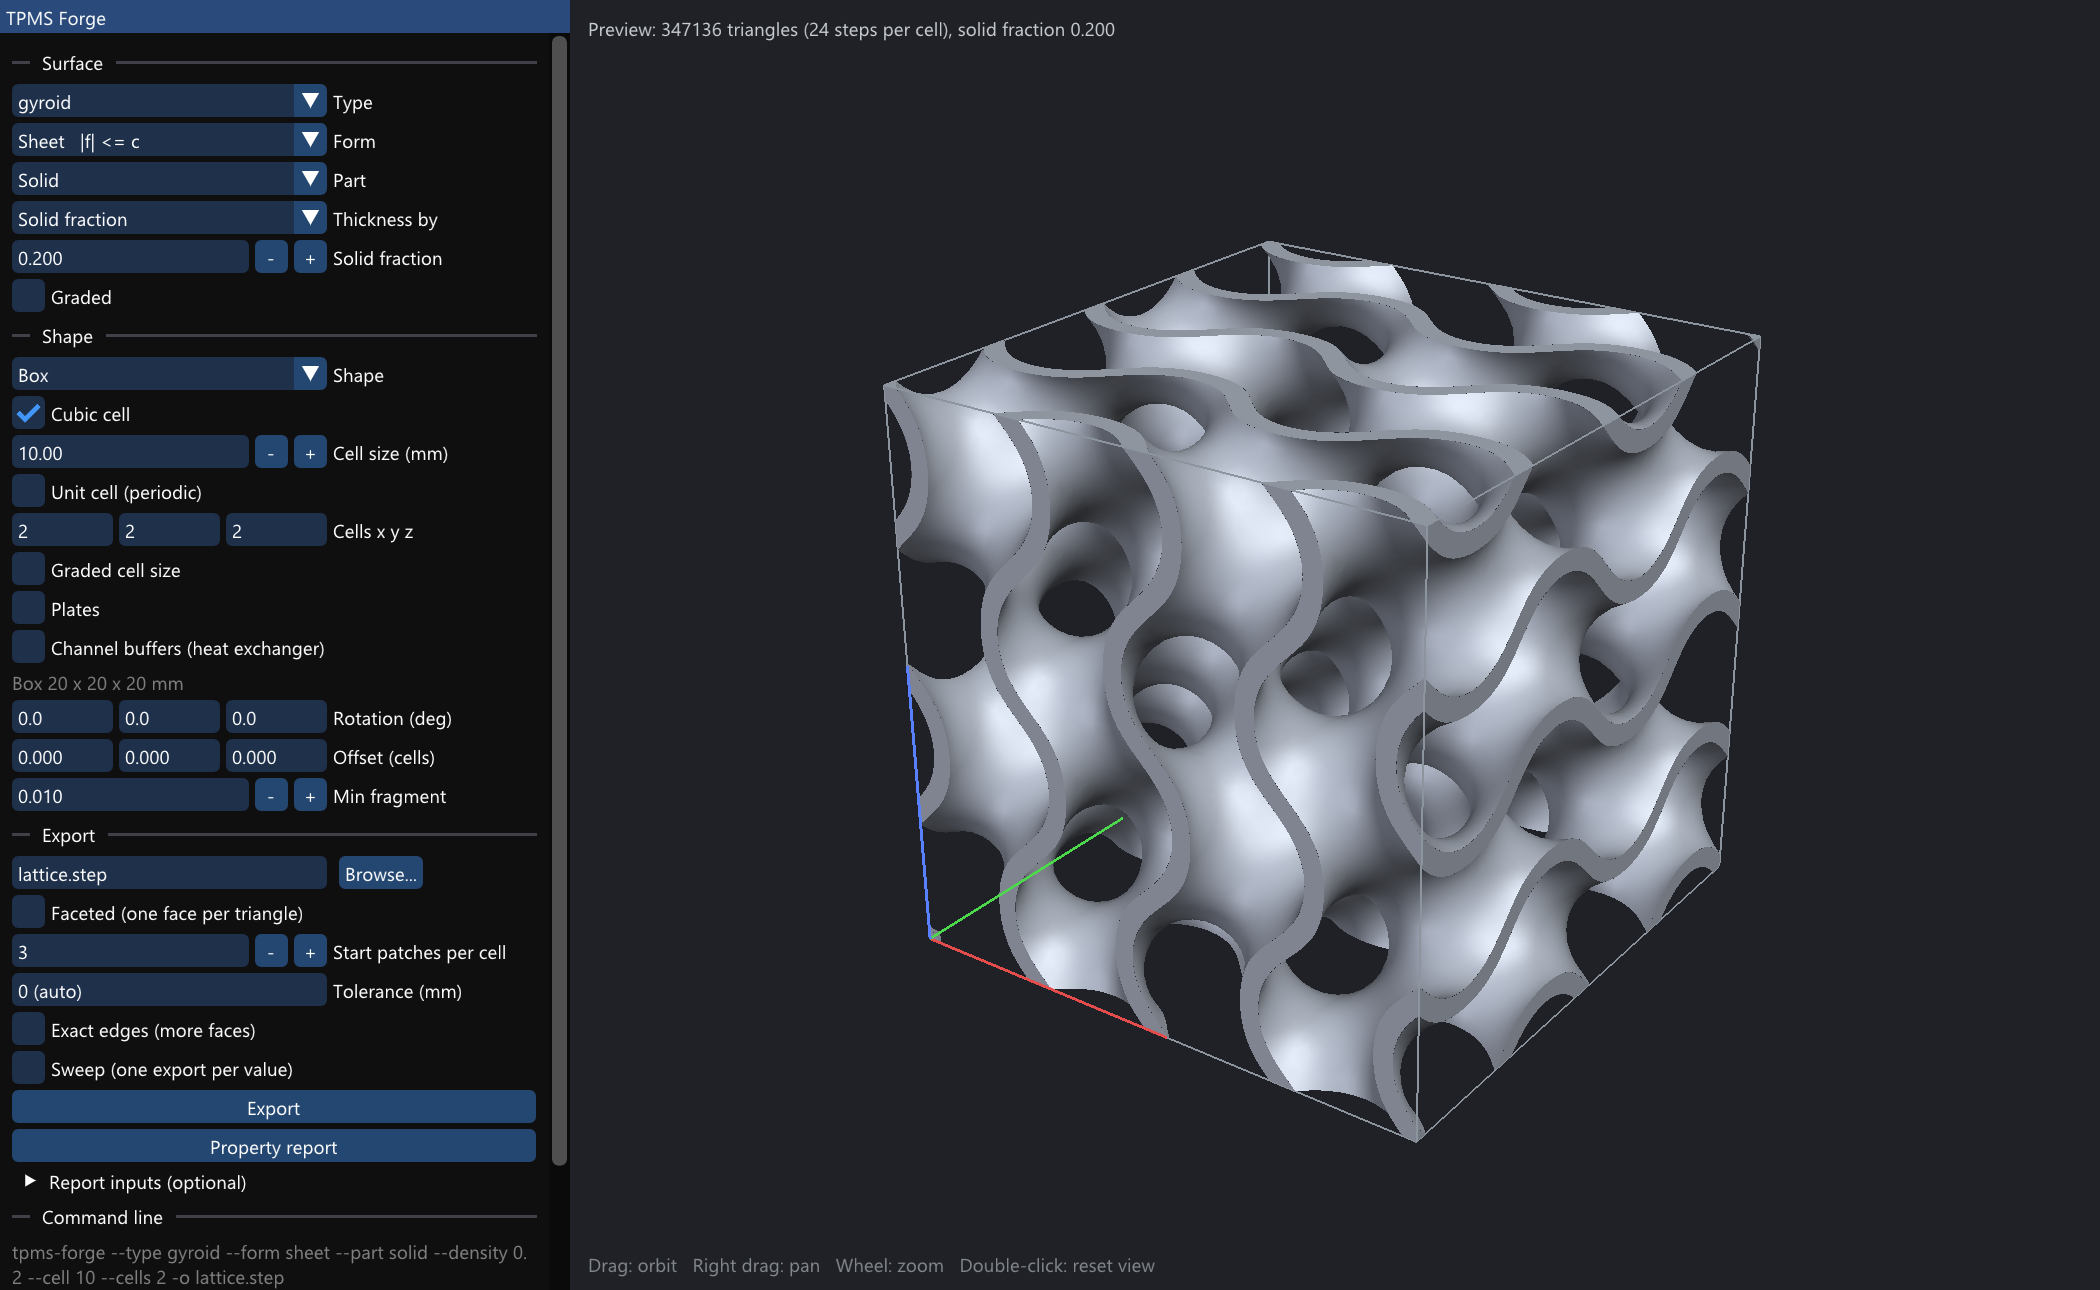
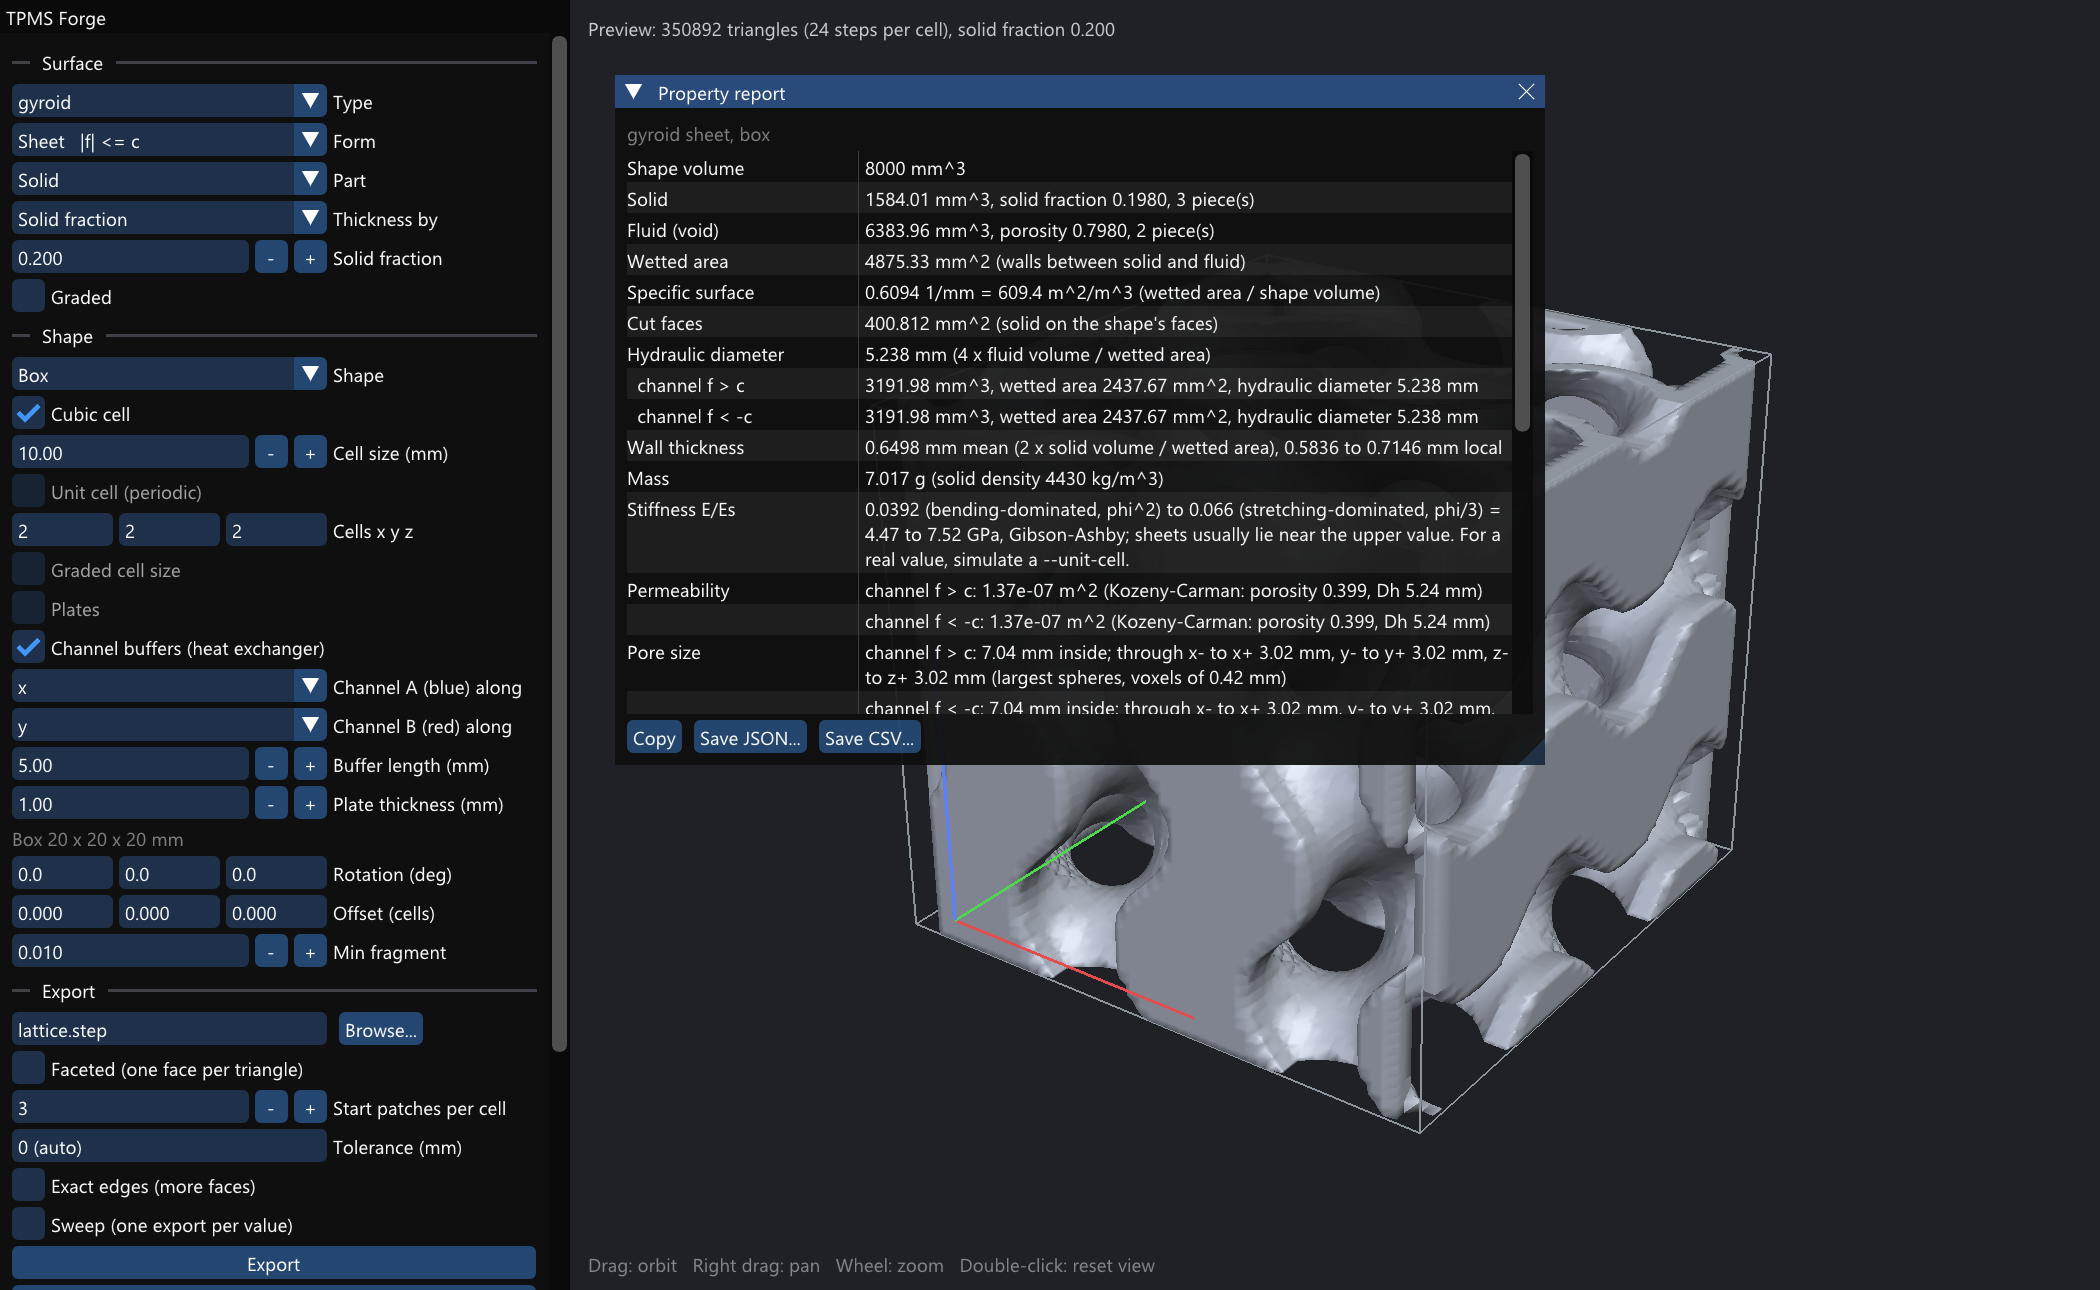
README pictures: the surface types and the GUI with its property report
The README opens with a gallery of one sheet cell of each of the seven
surface types (docs/surfaces.png, rendered by tools/render_images.py in the
banner's style) and a screenshot of the GUI with the property report open
(docs/gui.png, now written by tools/user_guide.py with its screenshots).

diff --git a/tools/render_images.py b/tools/render_images.py
@@ -1,5 +1,6 @@
 """Renders the README banner, docs/banner.png (also GitHub's social preview
-image), and the program icon, src/tpms.ico, from models that build/tpms-forge makes.
+image), the gallery of surface types, docs/surfaces.png, and the program icon,
+src/tpms.ico, from models that build/tpms-forge makes.
 
 Needs the project's .venv (VTK comes with cadquery-ocp) and a built tpms-forge.
 Usage: .venv/Scripts/python tools/render_images.py   (.venv/bin/python elsewhere)
@@ -172,25 +173,58 @@ def banner():
     img.convert("RGB").resize((W // 2, H // 2), Image.LANCZOS).save(ROOT / "docs" / "banner.png", optimize=True)
 
 
-def icon():
-    mesh = model("cell", "--type gyroid --cells 1 --density 0.35 --res 48")
+def gradient(size):
+    """The background: TOP at the top, BOTTOM at the bottom."""
+    rows = np.linspace(0, 1, size[1])[:, None, None]
+    shade = np.asarray(TOP) * (1 - rows) + np.asarray(BOTTOM) * rows
+    return Image.fromarray((np.broadcast_to(shade, (size[1], size[0], 3)) * 255).astype(np.uint8)).convert("RGBA")
+
+
+def cell_picture(name, args, side):
+    """One cell of a lattice, seen from a corner, on a transparent square of the given side."""
+    mesh = model(name, args)
     paint(mesh, (0.3, 0.2, 1))
     img, _ = render([actor(mesh, (0, 0, 0), 2, (0, 0, 0))], (1024, 1024), (6, -6, 5), (0, 0, 0), 22, False)
     img = img.crop(img.getbbox())
-    img = img.resize((round(img.width * 212 / max(img.size)), round(img.height * 212 / max(img.size))), Image.LANCZOS)
-    # On a dark rounded tile, as the banner, so it reads on light and dark backgrounds.
-    rows = np.linspace(0, 1, 256)[:, None, None]
-    shade = np.asarray(TOP) * (1 - rows) + np.asarray(BOTTOM) * rows
-    tile = Image.fromarray((np.broadcast_to(shade, (256, 256, 3)) * 255).astype(np.uint8)).convert("RGBA")
+    scale = side / max(img.size)
+    img = img.resize((round(img.width * scale), round(img.height * scale)), Image.LANCZOS)
+    square = Image.new("RGBA", (side, side))
+    square.alpha_composite(img, ((side - img.width) // 2, (side - img.height) // 2))
+    return square
+
+
+def surfaces():
+    """One sheet cell of each surface type, in rows of 4, labeled."""
+    types = [("gyroid", "Gyroid"), ("schwarz-p", "Schwarz P"), ("diamond", "Diamond"), ("iwp", "I-WP"),
+             ("frd", "FRD"), ("fischer-koch-s", "Fischer-Koch S"), ("neovius", "Neovius")]
+    tile, label, margin = 400, 70, 80  # twice the final size
+    W = 4 * tile + 2 * margin
+    img = gradient((W, 2 * (tile + label) + margin))
+    draw = ImageDraw.Draw(img)
+    small = font(["segoeui.ttf", "DejaVuSans.ttf"], 40)
+    for k, (t, name) in enumerate(types):
+        row, col = divmod(k, 4)
+        x = margin + col * tile + (tile // 2 if row else 0)  # the last row of 3 centered
+        y = margin // 2 + row * (tile + label)
+        img.alpha_composite(cell_picture(f"cell-{t}", f"--type {t} --cells 1 --res 64", tile - 50), (x + 25, y))
+        draw.text((x + tile // 2, y + tile - 30), name, font=small, fill=(170, 180, 210), anchor="mt")
+    img.convert("RGB").resize((img.width // 2, img.height // 2), Image.LANCZOS).save(ROOT / "docs" / "surfaces.png",
+                                                                                       optimize=True)
+
+
+def icon():
+    # A gyroid cell on a dark rounded tile, as the banner, so it reads on light and dark backgrounds.
+    tile = gradient((256, 256))
     mask = Image.new("L", (256, 256))
     ImageDraw.Draw(mask).rounded_rectangle((0, 0, 255, 255), radius=52, fill=255)
     tile.putalpha(mask)
-    tile.alpha_composite(img, ((256 - img.width) // 2, (256 - img.height) // 2))
+    tile.alpha_composite(cell_picture("cell", "--type gyroid --cells 1 --density 0.35 --res 48", 212), (22, 22))
     tile.save(WORK / "icon.png")
     tile.save(ROOT / "src" / "tpms.ico", sizes=[(s, s) for s in (16, 24, 32, 48, 64, 128, 256)])
 
 
 if __name__ == "__main__":
     banner()
+    surfaces()
     icon()
-    print("wrote docs/banner.png and src/tpms.ico")
+    print("wrote docs/banner.png, docs/surfaces.png and src/tpms.ico")

diff --git a/tools/user_guide.py b/tools/user_guide.py
@@ -3,7 +3,8 @@
 Needs: python -m pip install reportlab pillow, and a built tpms-forge-gui.
 Usage: python tools/user_guide.py [--no-shots]
 
-The screenshots go to build/guide; --no-shots reuses them. Fonts: Segoe UI
+The screenshots go to build/guide; --no-shots reuses them. The one with the
+property report is also the README's picture of the GUI, docs/gui.png. Fonts: Segoe UI
 and Consolas (Windows), else DejaVu (matplotlib's copy).
 """
 import os
@@ -68,6 +69,7 @@ def take_shots():
         PILImage.open(ppm).save(SHOTS / f"{name}.png")
         ppm.unlink()
         print("screenshot", name)
+    PILImage.open(SHOTS / "report.png").save(ROOT / "docs" / "gui.png", optimize=True)
 
 
 def view(name):

diff --git a/README.md b/README.md
@@ -6,13 +6,19 @@
 
 TPMS Forge (TPMS-F for short) turns a TPMS lattice into a STEP or STL file. TPMS stands for triply periodic minimal surface. There is a command-line tool, `tpms-forge`, and a desktop app with a live 3D preview, `tpms-forge-gui`.
 
+![One cell of each surface type: gyroid, Schwarz P, diamond, I-WP, FRD, Fischer-Koch S and Neovius](docs/surfaces.png)
+
+Seven surface types, each as a sheet or a network, as the solid or as the fluid around it.
+
 **Status: v2.** STEP output has smooth bicubic B-spline faces that follow the exact surface within a set tolerance. STL output, and STEP with `--faceted`, are triangle meshes (the v0 path). The GUI offers every command-line option. Besides boxes, the lattice can fill a tube, torus shell or sphere shell with cells that follow the curvature, or a cylinder, sphere or torus cut from a straight lattice; every shape has smooth STEP. Density, wall thickness (in mm) and cell size can be graded, and a property report gives volumes, wetted area, hydraulic diameters and wall thickness for CFD and FEA. Every STEP file is checked as a valid closed solid in OpenCASCADE by the tests, and the files import into Onshape.
 
 **Download:** Windows executables (`tpms-forge.exe` and `tpms-forge-gui.exe`, nothing to install) and the user guide are on the [Releases](../../releases/latest) page. On other systems, [build from source](#build).
 
-![tpms-forge-gui](docs/gui.png)
+![tpms-forge-gui with the property report open](docs/gui.png)
 
-The [user guide](docs/tpms-forge-user-guide.pdf) (PDF) shows every capability with pictures and walks through common workflows. Rebuild it after changes with `python tools/user_guide.py` (needs `reportlab` and `pillow`, and a built `tpms-forge-gui` for the screenshots). The banner above and the program icon come from `tools/render_images.py` (run it with the Python of the OpenCASCADE checks, which has VTK).
+`tpms-forge-gui`: every option on the left, the live 3D preview on the right, and the property report (volumes, wetted area, hydraulic diameters, wall thickness, pore size, permeability, stiffness).
+
+The [user guide](docs/tpms-forge-user-guide.pdf) (PDF) shows every capability with pictures and walks through common workflows. Rebuild it after changes with `python tools/user_guide.py` (needs `reportlab` and `pillow`, and a built `tpms-forge-gui` for the screenshots). The banner, the surface pictures and the program icon come from `tools/render_images.py` (run it with the Python of the OpenCASCADE checks, which has VTK).
 
 ## GUI
 
